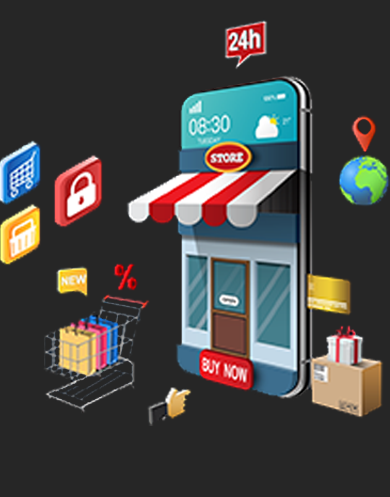
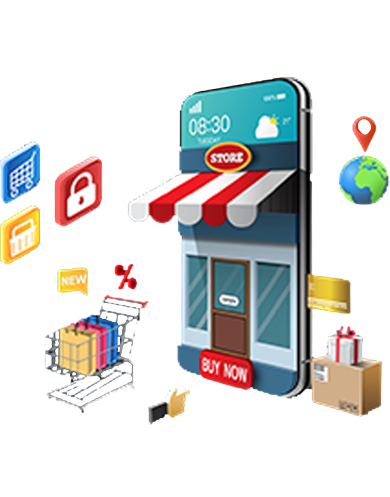
Pagina principal y explicacion terminada

diff --git a/public/css/index.css b/public/css/index.css
@@ -46,7 +46,7 @@ p {
 
 .centrado{
     position: absolute;
-    top: 50%;
+    top: 30%;
     left: 50%;
     transform: translate(-50%, -50%);
     font-size: 300%;
@@ -60,7 +60,7 @@ p {
 }
 .centrado-explicacion{
     position: absolute;
-    top: 50%;
+    top: 10%;
     left: 50%;
     transform: translate(-50%, -50%);
     font-size: 300%;
@@ -72,28 +72,27 @@ p {
     -webkit-backdrop-filter: blur(5px);
     padding: 30px 50px;
 }
+.tarjetas {
 
-.tarjetas{
-    background-image: url('/img/fondo.png');
-    background-repeat: no-repeat;
-    background-size: cover;
-    background-color:darkblue;
+    column-count: 3;
+
+
     padding: 1.7rem;
-    display: flex;
-    flex-direction: column;
-    justify-content: space-around;
-    align-items: center;
 }
-.tarjeta{
-    width: 30%;
+
+.tarjeta {
+    /* There will be 3 cards per row */
+    flex-basis: 33.33333%;
+
     padding: 1rem;
     background-color: blanchedalmond;
+    padding-left: 0.25rem;
+    padding-right: 0.25rem;
 }
+
 .tarjetas-explicacion{
-    background-image: url('/img/fondo.png');
-    background-repeat: no-repeat;
-    background-size: cover;
-    background-color:darkblue;
+    margin-top: 10rem;
+
     padding: 1.7rem;
     display: flex;
     flex-direction: column;
@@ -101,7 +100,7 @@ p {
     align-items: center;
 }
 .tarjeta-explicacion{
-    width: 30%;
+
     padding: 1rem;
     background-color: blanchedalmond;
 }
@@ -137,38 +136,62 @@ p {
     margin-top: 1rem;
 }
 .foto-tarjetas{
-    width: 1rem;
-    display: flex;
-    justify-content: center;
-    align-items: center;
+    width: 10rem;
+    display: block;
+    margin: auto;
     margin-bottom: 2rem;
+}
+.foto-principal{
+    width: 20rem;
+    display: block;
+    margin: auto;
+
 }
 .nivel{
     margin-top: 0.5rem;
 }
 #fondo-explicacion{
     background-image: url('/img/fondo.png');
-    background-repeat: no-repeat;
-    background-size: cover;
     background-color:darkblue;
 }
+#fondo-principal{
+    background-image: url('/img/fondo.png');
+    background-color:darkblue;
+}
+@media (max-width: 730px){
+    .tarjetas{
+        column-count: 1;
+    }
+    .tarjeta{
 
-@media (min-width: 390px){
+        margin-bottom: 1rem;
+    }
+    .tarjetas-explicacion{
+        margin-top: 12rem;
+    }
+    .tarjeta-explicacion{
+        width: 20rem;
+    }
+    .centrado-explicacion{
+        width: 14rem;
+    }
+}
+@media (max-width: 390px){
     .foto-principal{
         width: 20rem;
     }
 
     .tarjetas{
-    flex-direction: column;
+        column-count: 1;
     }
 
     .tarjeta{
         width: 100%;
-        margin-top: 1rem;
+        margin-bottom: 1rem;
     }
     .tarjetas-explicacion{
-    flex-direction: column;
-    margin-top: 10rem;
+        flex-direction: column;
+        margin-top: 10rem;
     }
 
     .tarjeta-explicacion{
@@ -187,7 +210,6 @@ p {
         align-items: center;
         top: 25%;
         font-size: 400%;
-
     }
     .centrado-explicacion{
         width: 50%;
@@ -196,12 +218,10 @@ p {
         align-items: center;
         top: 10%;
         font-size: 200%;
-
     }
     #fondo-explicacion{
         background-image: url('/img/fondo.png');
         background-repeat: no-repeat;
-        background-size:;
         background-color:darkblue;
     }
 

diff --git a/resources/views/principal.blade.php b/resources/views/principal.blade.php
@@ -28,11 +28,12 @@
     </header> --}}
 
 </head>
-<body>
+<body id="fondo-principal">
 <div>
     <img class="foto-principal" src="/img/imagen2.png" alt="">
     <p class="centrado">ERC</p>
 </div>
+
 <div class="tarjetas">
     <div class="tarjeta">
         <div class="titulo">
